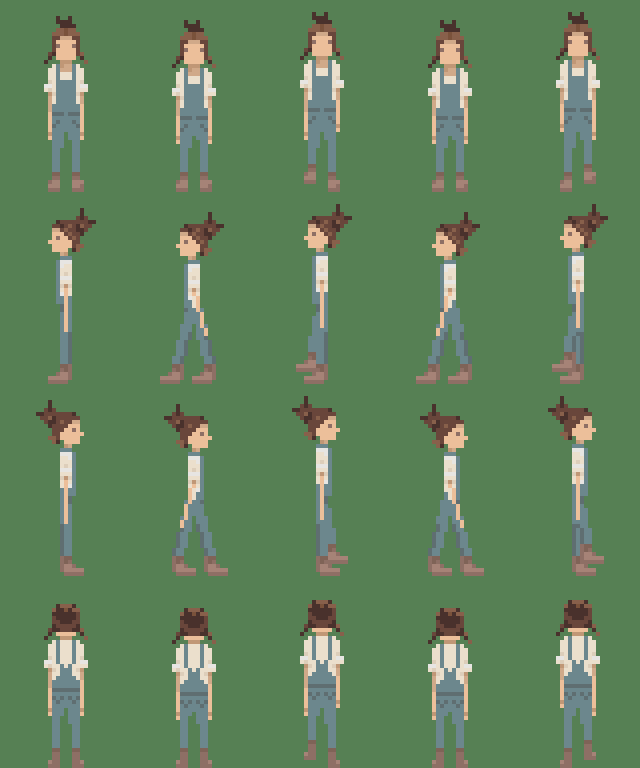
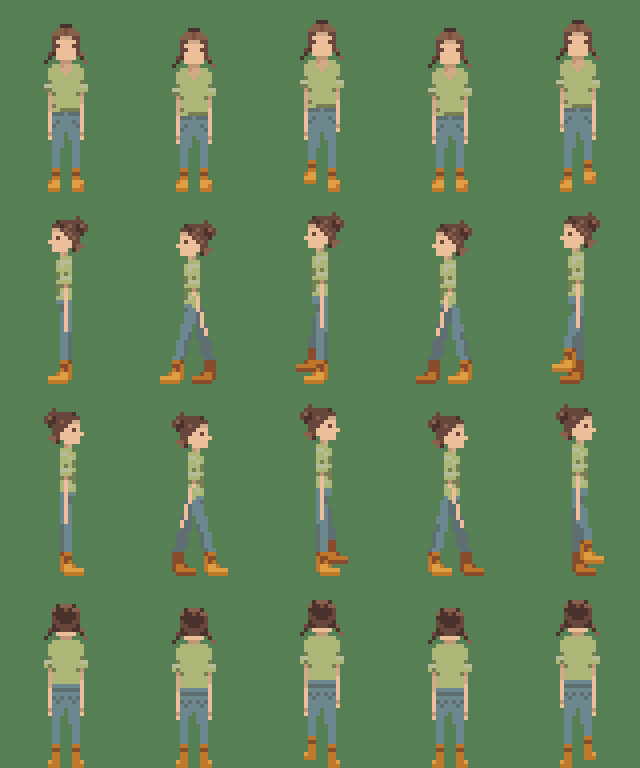
angela: new hero colours (green shirt, jeans, orange boots) on the same walk cycle; generator now reads the colours from the art by position
Claude-Session: https://claude.ai/code/session_01Xiux81LEqjvUithNNjQsjc

diff --git a/tools/make_hero_walk.py b/tools/make_hero_walk.py
@@ -1,4 +1,7 @@
 """Builds a walk cycle for the hero from the 4-view reference (tools/src/hero_ref.png: left, front, right, back).
+The art is whatever hero_ref.png currently holds, so recolours can be dropped in. tools/src/hero_ref_v1.png is the original
+version; it only tells the script which pixels are skin / jeans / boots / sleeves (by position) so the far leg and the arm gap
+can be shaded from the colours the art actually uses.
 Every pixel comes from the reference: parts (head, body, arms, legs) are moved, sheared or stretched, never redrawn,
 and the palette is untouched (the far leg only uses darker colours that already exist in the reference).
 Output: assets/chars/hero_walk.png  = 5 columns (idle + 4 walk frames) x 4 rows (down, left, right, up), cell 32x48,
@@ -9,6 +12,7 @@ from collections import deque
 
 CW, CH, CX, OY = 32, 48, 16, 16          # cell size, feet centre x, sprite y -> cell y offset
 src = Image.open('tools/src/hero_ref.png').convert('RGBA'); A = np.array(src)
+ROLE = np.array(Image.open('tools/src/hero_ref_v1.png').convert('RGBA'))   # original colours = what each pixel is
 
 def components():
     a = A[..., 3] > 0; lab = np.zeros(a.shape, int); n = 0
@@ -26,11 +30,16 @@ def components():
 LAB = components()
 def fig(i): return {(int(x), int(y)): tuple(int(v) for v in A[y, x]) for y, x in zip(*np.where(LAB == i))}
 
-# reference colours used for the far (darker) leg
-HEX = lambda t: t[:3]
-PANT, PANT_DK = (108, 135, 141), (95, 110, 113)
-BOOT_MAP = {(166, 131, 119): (142, 111, 101), (163, 132, 118): (142, 111, 101), (142, 111, 101): (127, 99, 87)}
-SKIN = {(208, 169, 137), (236, 191, 154), (192, 151, 118)}
+# colours of the current art, found by position from the original reference (so recolours keep working)
+def vote(old, y0=0, y1=63):
+    from collections import Counter
+    c = Counter(tuple(int(v) for v in A[y, x][:3]) for y in range(y0, y1 + 1) for x in range(64) if tuple(int(v) for v in ROLE[y, x][:3]) == old and ROLE[y, x][3] and A[y, x][3])
+    return c.most_common(1)[0][0] if c else old
+PANT, PANT_DK = vote((108, 135, 141), 44, 63), vote((95, 110, 113), 44, 63)        # jeans and their shaded side
+BOOT_LIGHT = vote((166, 131, 119), 59, 63); BOOT_MID = vote((142, 111, 101), 59, 63); BOOT_DARK = vote((127, 99, 87), 59, 63)
+BOOT_MAP = {BOOT_LIGHT: BOOT_MID, vote((163, 132, 118), 59, 63): BOOT_MID, BOOT_MID: BOOT_DARK}   # the far leg's boot is one shade darker
+SKIN = {vote(c) for c in [(208, 169, 137), (236, 191, 154), (192, 151, 118)]}
+SLEEVE = vote((235, 223, 204), 33, 43) + (255,)                                                   # sleeve colour behind a swinging forearm
 
 def shift(px, dx=0, dy=0): return {(x + dx, y + dy): c for (x, y), c in px.items()}
 def where(px, f): return {k: v for k, v in px.items() if f(*k)}
@@ -57,7 +66,7 @@ def shear(px, y0, y1, s, rigid_from=None):  # lean a column: dx grows from 0 at 
     for (x, y), c in px.items():
         t = (min(y, rigid_from if rigid_from is not None else y1) - y0) / max(1, (y1 - y0)); out[(x + int(round(s * max(0, min(1, t)))), y)] = c
     return out
-def far_leg(px): return {k: (PANT_DK if c == PANT else BOOT_MAP.get(c, c)) for k, c in px.items()}
+def far_leg(px): return {k: ((PANT_DK + (255,)) if c[:3] == PANT else (BOOT_MAP.get(c[:3], c[:3]) + (255,))) for k, c in px.items()}
 
 def render(layers, cx, dy_all=0):
     cell = Image.new('RGBA', (CW, CH), (0, 0, 0, 0)); pix = cell.load()
@@ -102,7 +111,7 @@ def side(px, cx, f):  # f = -1 faces left, +1 faces right
             if (x, y) not in leg_src: leg_src[(x, y)] = PANT + (255,)
     fill = {}
     for (x, y) in arm_skin:
-        if y <= 43: fill[(x, y)] = (235, 223, 204, 255)
+        if y <= 43: fill[(x, y)] = SLEEVE
     torso = merge(fill, torso)
     near = leg_src; far = far_leg(leg_src)
     ANK = 58
